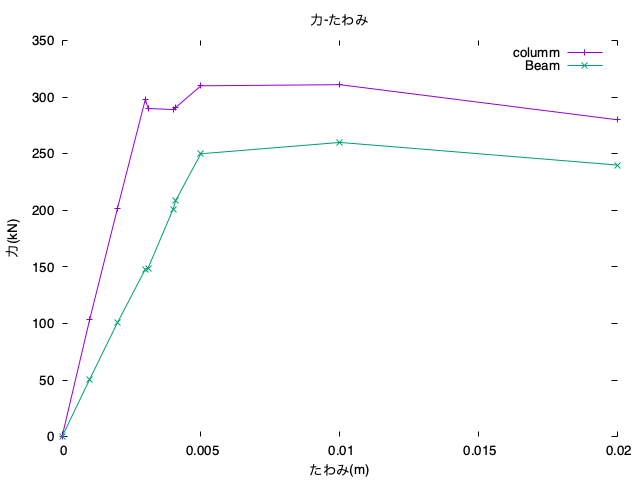
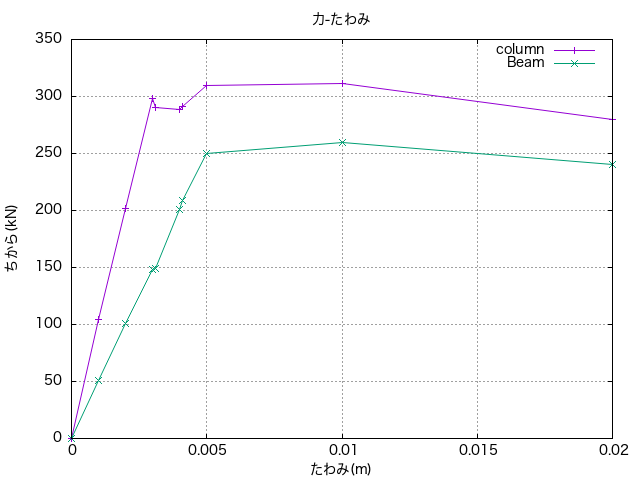
課題提出

diff --git a/exercise.md b/exercise.md
@@ -25,6 +25,14 @@
 
 ```gnuplot {cmd=true output="html"}
 set terminal svg
+set grid
+set title "関数のブロット"
+set xlabel "x"
+set ylabel "y"
+set xrange [0:7]
+set yrange [-20:15]
+plot 2 * x**2 * sqrt(x)-5 * x**2 title "f1(x)", x/log(x) title "f2(x)"
+set grid
 
 ```
 
@@ -43,9 +51,15 @@ set terminal svg
 
 ```gnuplot {cmd=true, output="html"}
 set terminal svg
+set datafile separator comma
 set xdata time
 set timefmt '%Y/%m/%d'
 set xtics format "%m/%d"
+set grid
+set title "八王子の気温(過去一年間)"
+set ylabel "温度"
+plot "weather2025.csv" using 1:2 w l title "最高気温", "weather2025.csv" using 1:3 w l title "最高気温(平年)", "weather2025.csv" using 1:4 w l title "最低気温", "weather2025.csv" using 1:5 w l title "最低気温(平年)"
+
 
 ```
 
@@ -66,6 +80,12 @@ set xtics format "%m/%d"
 ```gnuplot {cmd=true, output="html"}
 set terminal svg
 unset key
-
+set style fill solid
+set boxwidth 0.6
+set yrange [0:16]
+set grid
+set title "誕生日の月別人数"
+set ylabel "人" offset graph 0,0.5 rotate by 0
+plot "bm.txt" using 1:2:xtic(1) with boxes linecolor "skyblue"
 
 ```
